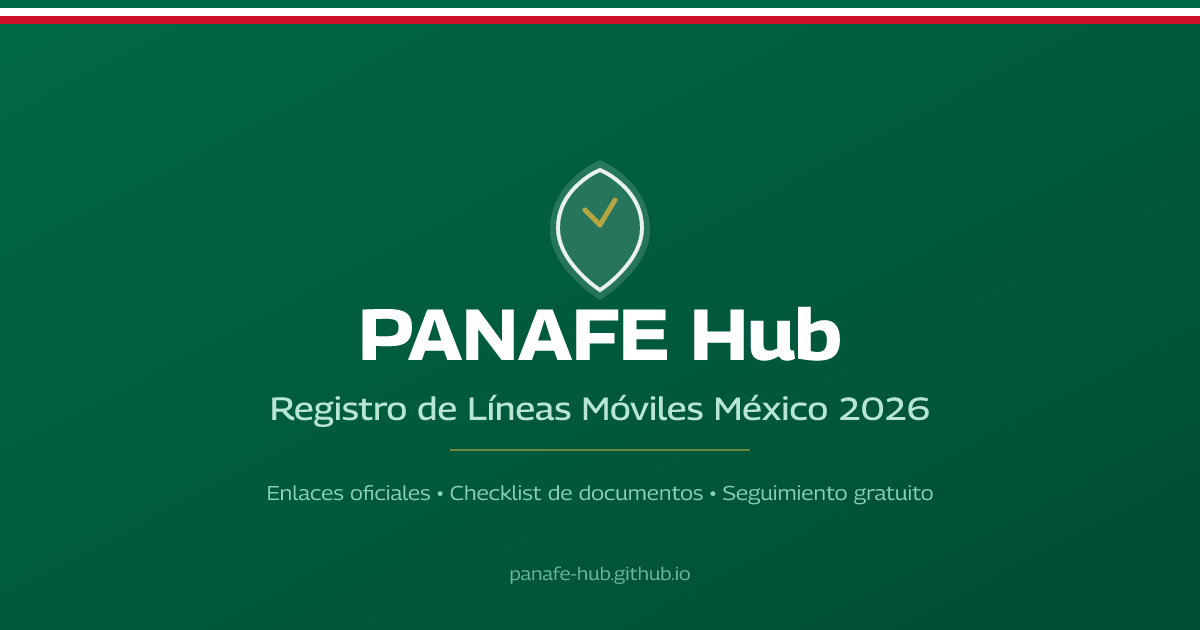
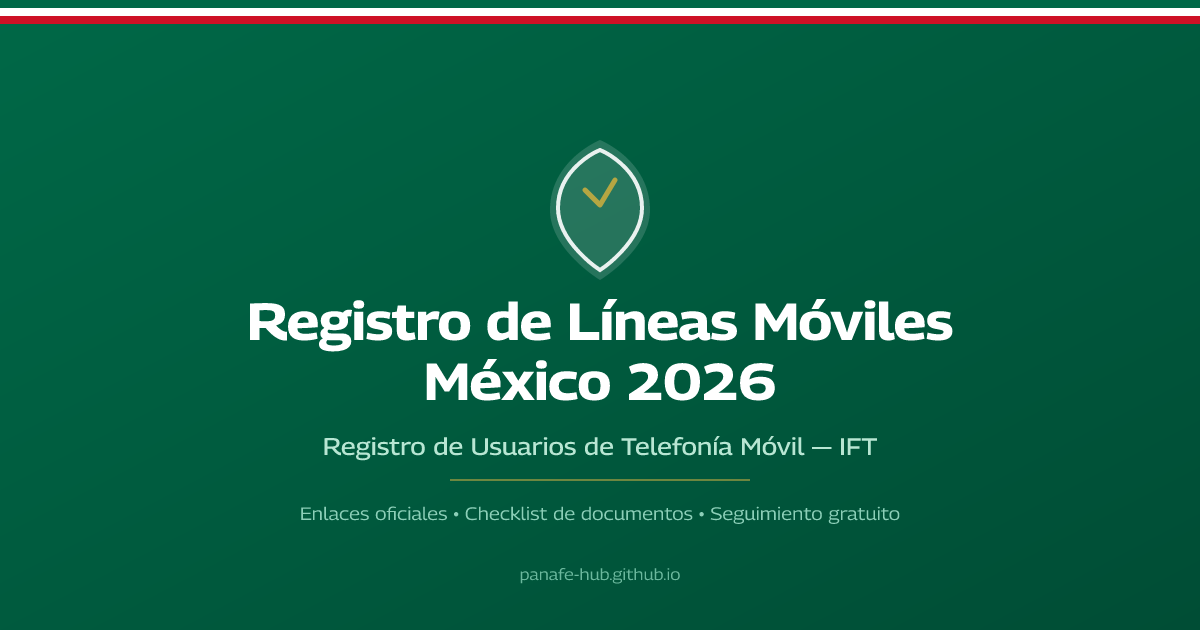
fix: reemplaza PANAFE por términos oficiales en todo el SEO
Meta tags (index.html):
- title: ahora inicia con 'Registro de Líneas Móviles México 2026'.
- description: usa 'Registro de Usuarios de Telefonía Móvil' en lugar de PANAFE.
- keywords: elimina 'PANAFE'; prioriza términos oficiales indexables.
- og:title, twitter:title: términos oficiales primero, marca al final.
- og:image:alt, twitter:image:alt: descripción con términos oficiales.

Structured Data (JSON-LD):
- HowTo name: 'Cómo registrar tu línea móvil en el Registro de Usuarios de Telefonía Móvil'.
- FAQPage: pregunta renombrada a '¿Qué es el Registro de Usuarios de Telefonía Móvil?'.
- Todas las respuestas usan términos oficiales; se menciona que PANAFE es nombre interno.

Manifest:
- name y description usan términos oficiales.

OG Image:
- Regenerada con título 'Registro de Líneas Móviles México 2026' y subtítulo
  'Registro de Usuarios de Telefonía Móvil — IFT'.

La UI visible del sitio (Navbar, Hero, Footer, etc.) conserva PANAFE como marca interna.

Changed region(s): [[0.185, 0.2111, 0.8017, 0.7238], [0.2158, 0.754, 0.7708, 0.8444], [0.4317, 0.9048, 0.5858, 0.9349]]

diff --git a/index.html b/index.html
@@ -5,10 +5,10 @@
     <meta name="viewport" content="width=device-width, initial-scale=1.0" />
 
     <!-- Primary Meta Tags -->
-    <title>PANAFE Hub - Registro de Líneas Móviles México 2026</title>
-    <meta name="title" content="PANAFE Hub - Registro de Líneas Móviles México 2026" />
-    <meta name="description" content="Herramienta informativa gratuita para registrar tu línea móvil en el PANAFE antes del 30 de junio de 2026. Enlaces directos a operadoras, checklist de documentos, seguimiento de registro y guía de amparo." />
-    <meta name="keywords" content="PANAFE, registro de líneas móviles, México, Telcel, AT&T, Movistar, CURP, IFT, vinculación de líneas, Registro Nacional de Usuarios de Telecomunicaciones, Bait, Altán, Virgin Mobile, Flash Mobile" />
+    <title>Registro de Líneas Móviles México 2026 | PANAFE Hub</title>
+    <meta name="title" content="Registro de Líneas Móviles México 2026 | PANAFE Hub" />
+    <meta name="description" content="Herramienta informativa gratuita para registrar tu línea móvil en el Registro de Usuarios de Telefonía Móvil (Registro Nacional de Usuarios de Telecomunicaciones) antes del 30 de junio de 2026. Enlaces directos a operadoras, checklist de documentos, seguimiento de registro y guía de amparo." />
+    <meta name="keywords" content="registro de líneas móviles, Registro de Usuarios de Telefonía Móvil, Registro Nacional de Usuarios de Telecomunicaciones, vinculación de líneas, México, Telcel, AT&T, Movistar, CURP, IFT, Bait, Altán, Virgin Mobile, Flash Mobile" />
     <meta name="author" content="PANAFE Hub" />
     <meta name="robots" content="index, follow, max-image-preview:large, max-snippet:-1" />
     <meta name="googlebot" content="index, follow" />
@@ -27,7 +27,7 @@
     <link rel="alternate" hreflang="x-default" href="https://panafe-hub.github.io/" />
 
     <!-- Open Graph / Facebook -->
-    <meta property="og:title" content="PANAFE Hub - Registro de Líneas Móviles México 2026" />
+    <meta property="og:title" content="Registro de Líneas Móviles México 2026 | PANAFE Hub" />
     <meta property="og:description" content="Registra tu línea móvil antes del 30 de junio de 2026. Enlaces oficiales a operadoras, checklist de documentos y seguimiento gratuito." />
     <meta property="og:type" content="website" />
     <meta property="og:locale" content="es_MX" />
@@ -37,14 +37,14 @@
     <meta property="og:image:width" content="1200" />
     <meta property="og:image:height" content="630" />
     <meta property="og:image:type" content="image/png" />
-    <meta property="og:image:alt" content="PANAFE Hub - Registro de Líneas Móviles México 2026" />
+    <meta property="og:image:alt" content="Registro de Líneas Móviles México 2026 - Enlaces oficiales a operadoras y checklist de documentos" />
 
     <!-- Twitter / X -->
     <meta name="twitter:card" content="summary_large_image" />
-    <meta name="twitter:title" content="PANAFE Hub - Registro de Líneas Móviles México 2026" />
+    <meta name="twitter:title" content="Registro de Líneas Móviles México 2026 | PANAFE Hub" />
     <meta name="twitter:description" content="Registra tu línea móvil antes del 30 de junio de 2026. Enlaces oficiales a operadoras, checklist de documentos y seguimiento gratuito." />
     <meta name="twitter:image" content="https://panafe-hub.github.io/og-image.png" />
-    <meta name="twitter:image:alt" content="PANAFE Hub - Registro de Líneas Móviles México 2026" />
+    <meta name="twitter:image:alt" content="Registro de Líneas Móviles México 2026 - Enlaces oficiales a operadoras y checklist de documentos" />
 
     <!-- Icons -->
     <link rel="icon" type="image/svg+xml" href="/favicon.svg" />
@@ -96,7 +96,7 @@
     {
       "@context": "https://schema.org",
       "@type": "HowTo",
-      "name": "Cómo registrar tu línea móvil en el PANAFE",
+      "name": "Cómo registrar tu línea móvil en el Registro de Usuarios de Telefonía Móvil",
       "description": "Guía paso a paso para vincular tu línea móvil a tu identidad antes del 30 de junio de 2026.",
       "totalTime": "PT15M",
       "estimatedCost": {
@@ -131,7 +131,11 @@
           "@type": "HowToStep",
           "position": 2,
           "name": "Acceder al portal de tu operadora",
-          "text": "Selecciona tu compañía (Telcel, AT&T, Movistar, Bait, Altán, Virgin Mobile o Flash Mobile) y accede a su portal oficial de registro PANAFE."
+          "text": "Selecciona tu compañía (Telcel, AT&T, Movistar, Bait, Altán, Virgin Mobile o Flash Mobile) y accede a su portal oficial de registro del Registro de Usuarios de Telefonía Móvil."},{"old":"          "name": "¿Qué es el PANAFE?",
+          "acceptedAnswer": {
+            "@type": "Answer",
+            "text": "PANAFE es el nombre interno de este proyecto que se refiere al Registro de Usuarios de Telefonía Móvil (también conocido como Registro Nacional de Usuarios de Telecomunicaciones), un proceso obligatorio regulado por el IFT en México para vincular cada línea móvil a la identidad de su titular."
+          }
         },
         {
           "@type": "HowToStep",

diff --git a/scripts/generate-og-image.js b/scripts/generate-og-image.js
@@ -23,32 +23,35 @@ const svg = `<?xml version="1.0" encoding="UTF-8"?>
   <rect x="0" y="16" width="1200" height="8" fill="#CE1126"/>
 
   <!-- Shield icon centered -->
-  <g transform="translate(600, 220)">
+  <g transform="translate(600, 200)">
     <path d="M0,-60 C0,-60 50,-40 50,10 C50,50 0,80 0,80 C0,80 -50,50 -50,10 C-50,-40 0,-60 0,-60 Z" fill="#ffffff" opacity="0.15"/>
     <path d="M0,-50 C0,-50 42,-33 42,8 C42,43 0,70 0,70 C0,70 -42,43 -42,8 C-42,-33 0,-50 0,-50 Z" fill="none" stroke="#ffffff" stroke-width="4" opacity="0.9"/>
     <path d="M-15,-10 L0,5 L15,-20" fill="none" stroke="#B5A642" stroke-width="5" stroke-linecap="round" stroke-linejoin="round"/>
   </g>
 
   <!-- Main title -->
-  <text x="600" y="360" text-anchor="middle" font-family="Inter, system-ui, sans-serif" font-size="72" font-weight="700" fill="#ffffff" letter-spacing="-1">
-    PANAFE Hub
+  <text x="600" y="340" text-anchor="middle" font-family="Inter, system-ui, sans-serif" font-size="52" font-weight="700" fill="#ffffff" letter-spacing="-1">
+    Registro de Líneas Móviles
+  </text>
+  <text x="600" y="400" text-anchor="middle" font-family="Inter, system-ui, sans-serif" font-size="52" font-weight="700" fill="#ffffff" letter-spacing="-1">
+    México 2026
   </text>
 
   <!-- Subtitle -->
-  <text x="600" y="420" text-anchor="middle" font-family="Inter, system-ui, sans-serif" font-size="32" font-weight="500" fill="#b8e6d3">
-    Registro de Líneas Móviles México 2026
+  <text x="600" y="455" text-anchor="middle" font-family="Inter, system-ui, sans-serif" font-size="24" font-weight="500" fill="#b8e6d3">
+    Registro de Usuarios de Telefonía Móvil — IFT
   </text>
 
   <!-- Divider line -->
-  <line x1="450" y1="450" x2="750" y2="450" stroke="#B5A642" stroke-width="2" opacity="0.6"/>
+  <line x1="450" y1="480" x2="750" y2="480" stroke="#B5A642" stroke-width="2" opacity="0.6"/>
 
   <!-- Bottom tagline -->
-  <text x="600" y="500" text-anchor="middle" font-family="Inter, system-ui, sans-serif" font-size="20" font-weight="400" fill="#8ccfb8">
+  <text x="600" y="520" text-anchor="middle" font-family="Inter, system-ui, sans-serif" font-size="18" font-weight="400" fill="#8ccfb8">
     Enlaces oficiales • Checklist de documentos • Seguimiento gratuito
   </text>
 
   <!-- URL at bottom -->
-  <text x="600" y="580" text-anchor="middle" font-family="Inter, system-ui, sans-serif" font-size="18" font-weight="400" fill="#6bb89d">
+  <text x="600" y="580" text-anchor="middle" font-family="Inter, system-ui, sans-serif" font-size="16" font-weight="400" fill="#6bb89d">
     panafe-hub.github.io
   </text>
 </svg>`
